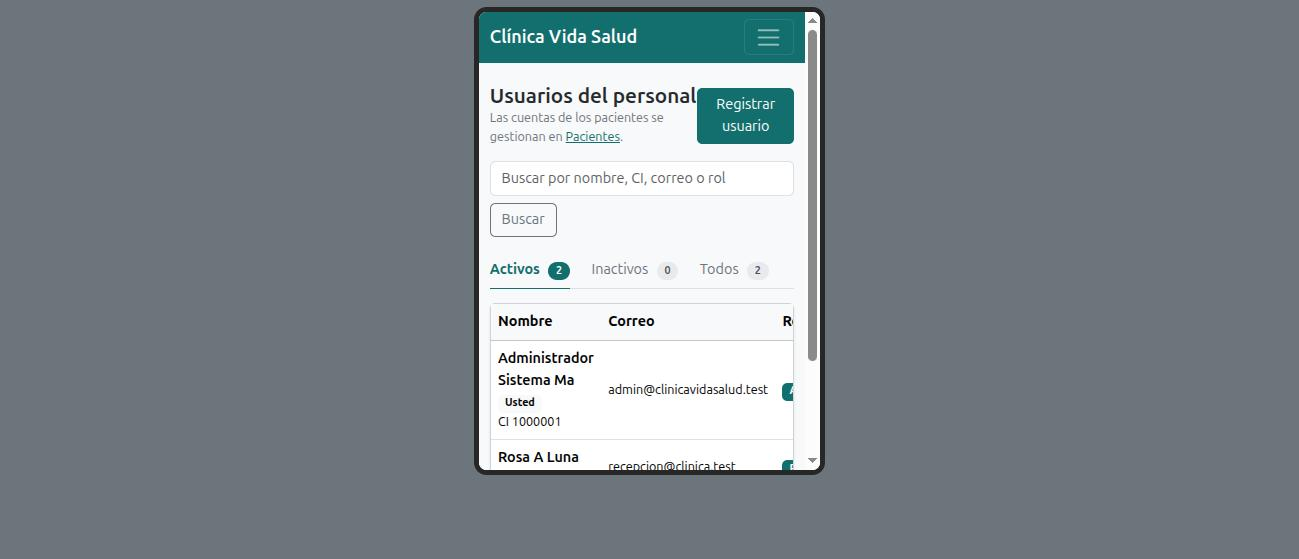
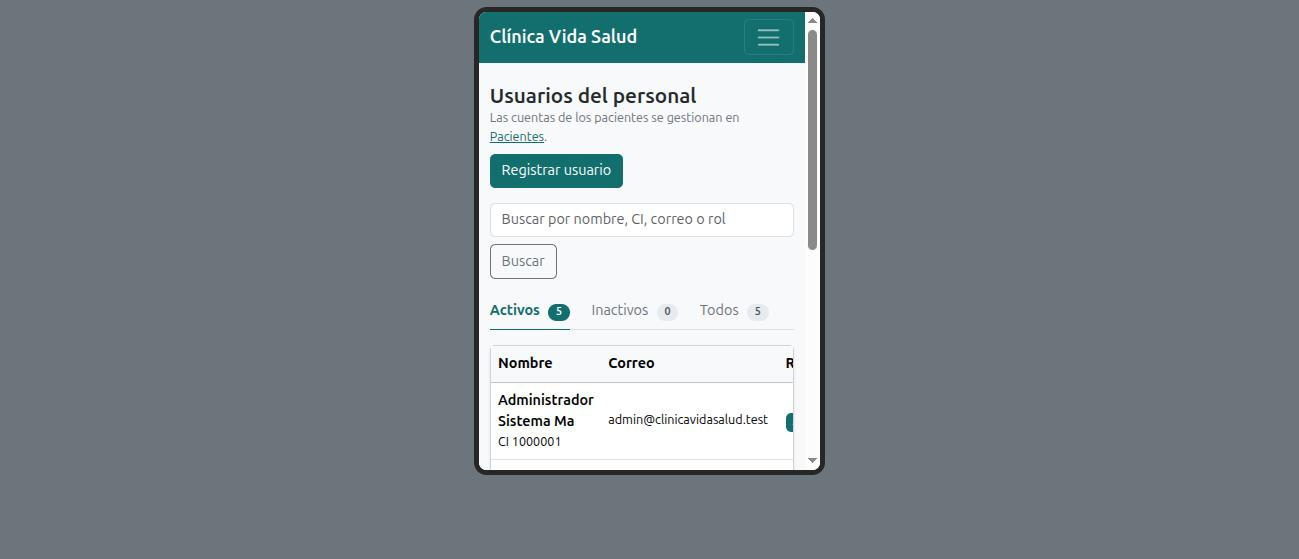
docs(pruebas): actualizar la captura del telefono y los defectos de responsive corregidos

diff --git a/documento/Informe-Final.md b/documento/Informe-Final.md
@@ -2635,7 +2635,7 @@ Capturas del sistema en funcionamiento, tomadas el 24/10/2026 con las sesiones d
 
 ![Cambiar contraseña](img/capturas/07-cambiar-password.jpg)
 
-**Figura 8.** Lista de usuarios con un ancho de teléfono de 390 px: el menú se pliega en un botón y la tabla se desplaza dentro de su propio recuadro, sin ensanchar la página.
+**Figura 8.** Lista de usuarios con un ancho de teléfono de 390 px: el menú se pliega en un botón, el título y el botón de acción pasan a filas separadas y la tabla se desplaza dentro de su propio recuadro, sin ensanchar la página.
 
 ![Lista de usuarios en un teléfono](img/capturas/08-usuarios-telefono-390px.jpg)
 
@@ -2687,7 +2687,7 @@ Capturas del sistema en funcionamiento, tomadas el 24/10/2026 con las sesiones d
 
 ![Página de error 404](img/capturas/20-error-404.jpg)
 
-**Adaptación a pantallas angostas.** Se midió el ancho de las pantallas con 390 px de ancho y ninguna desborda horizontalmente. Con la sesión del Administrador: inicio, usuarios (lista, alta y edición), médicos (lista, alta y edición), especialidades (lista y alta), horarios (índice y semana de un médico) y cambio de contraseña. Con la sesión del Paciente: inicio, perfil y cambio de contraseña. El login y el registro, que son públicos, tampoco desbordan. En la medición se encontró y corrigió un defecto: el texto oculto de las cabeceras de las tablas ensanchaba la página en las listas de usuarios, médicos y especialidades. Las pantallas de la Recepcionista no se midieron en este ancho.
+**Adaptación a pantallas angostas.** Se midió el ancho de las pantallas con 390 px de ancho y ninguna desborda horizontalmente. Con la sesión del Administrador: inicio, usuarios (lista, alta y edición), médicos (lista, alta y edición), especialidades (lista y alta), horarios (índice y semana de un médico) y cambio de contraseña. Con la sesión del Paciente: inicio, perfil y cambio de contraseña. El login y el registro, que son públicos, tampoco desbordan. En la medición se encontraron y corrigieron dos defectos: el texto oculto de las cabeceras de las tablas ensanchaba la página en las listas de usuarios, médicos y especialidades, y el título de cada pantalla quedaba pegado a su botón de acción. Las pantallas de la Recepcionista no se midieron en este ancho.
 
 ---
 
